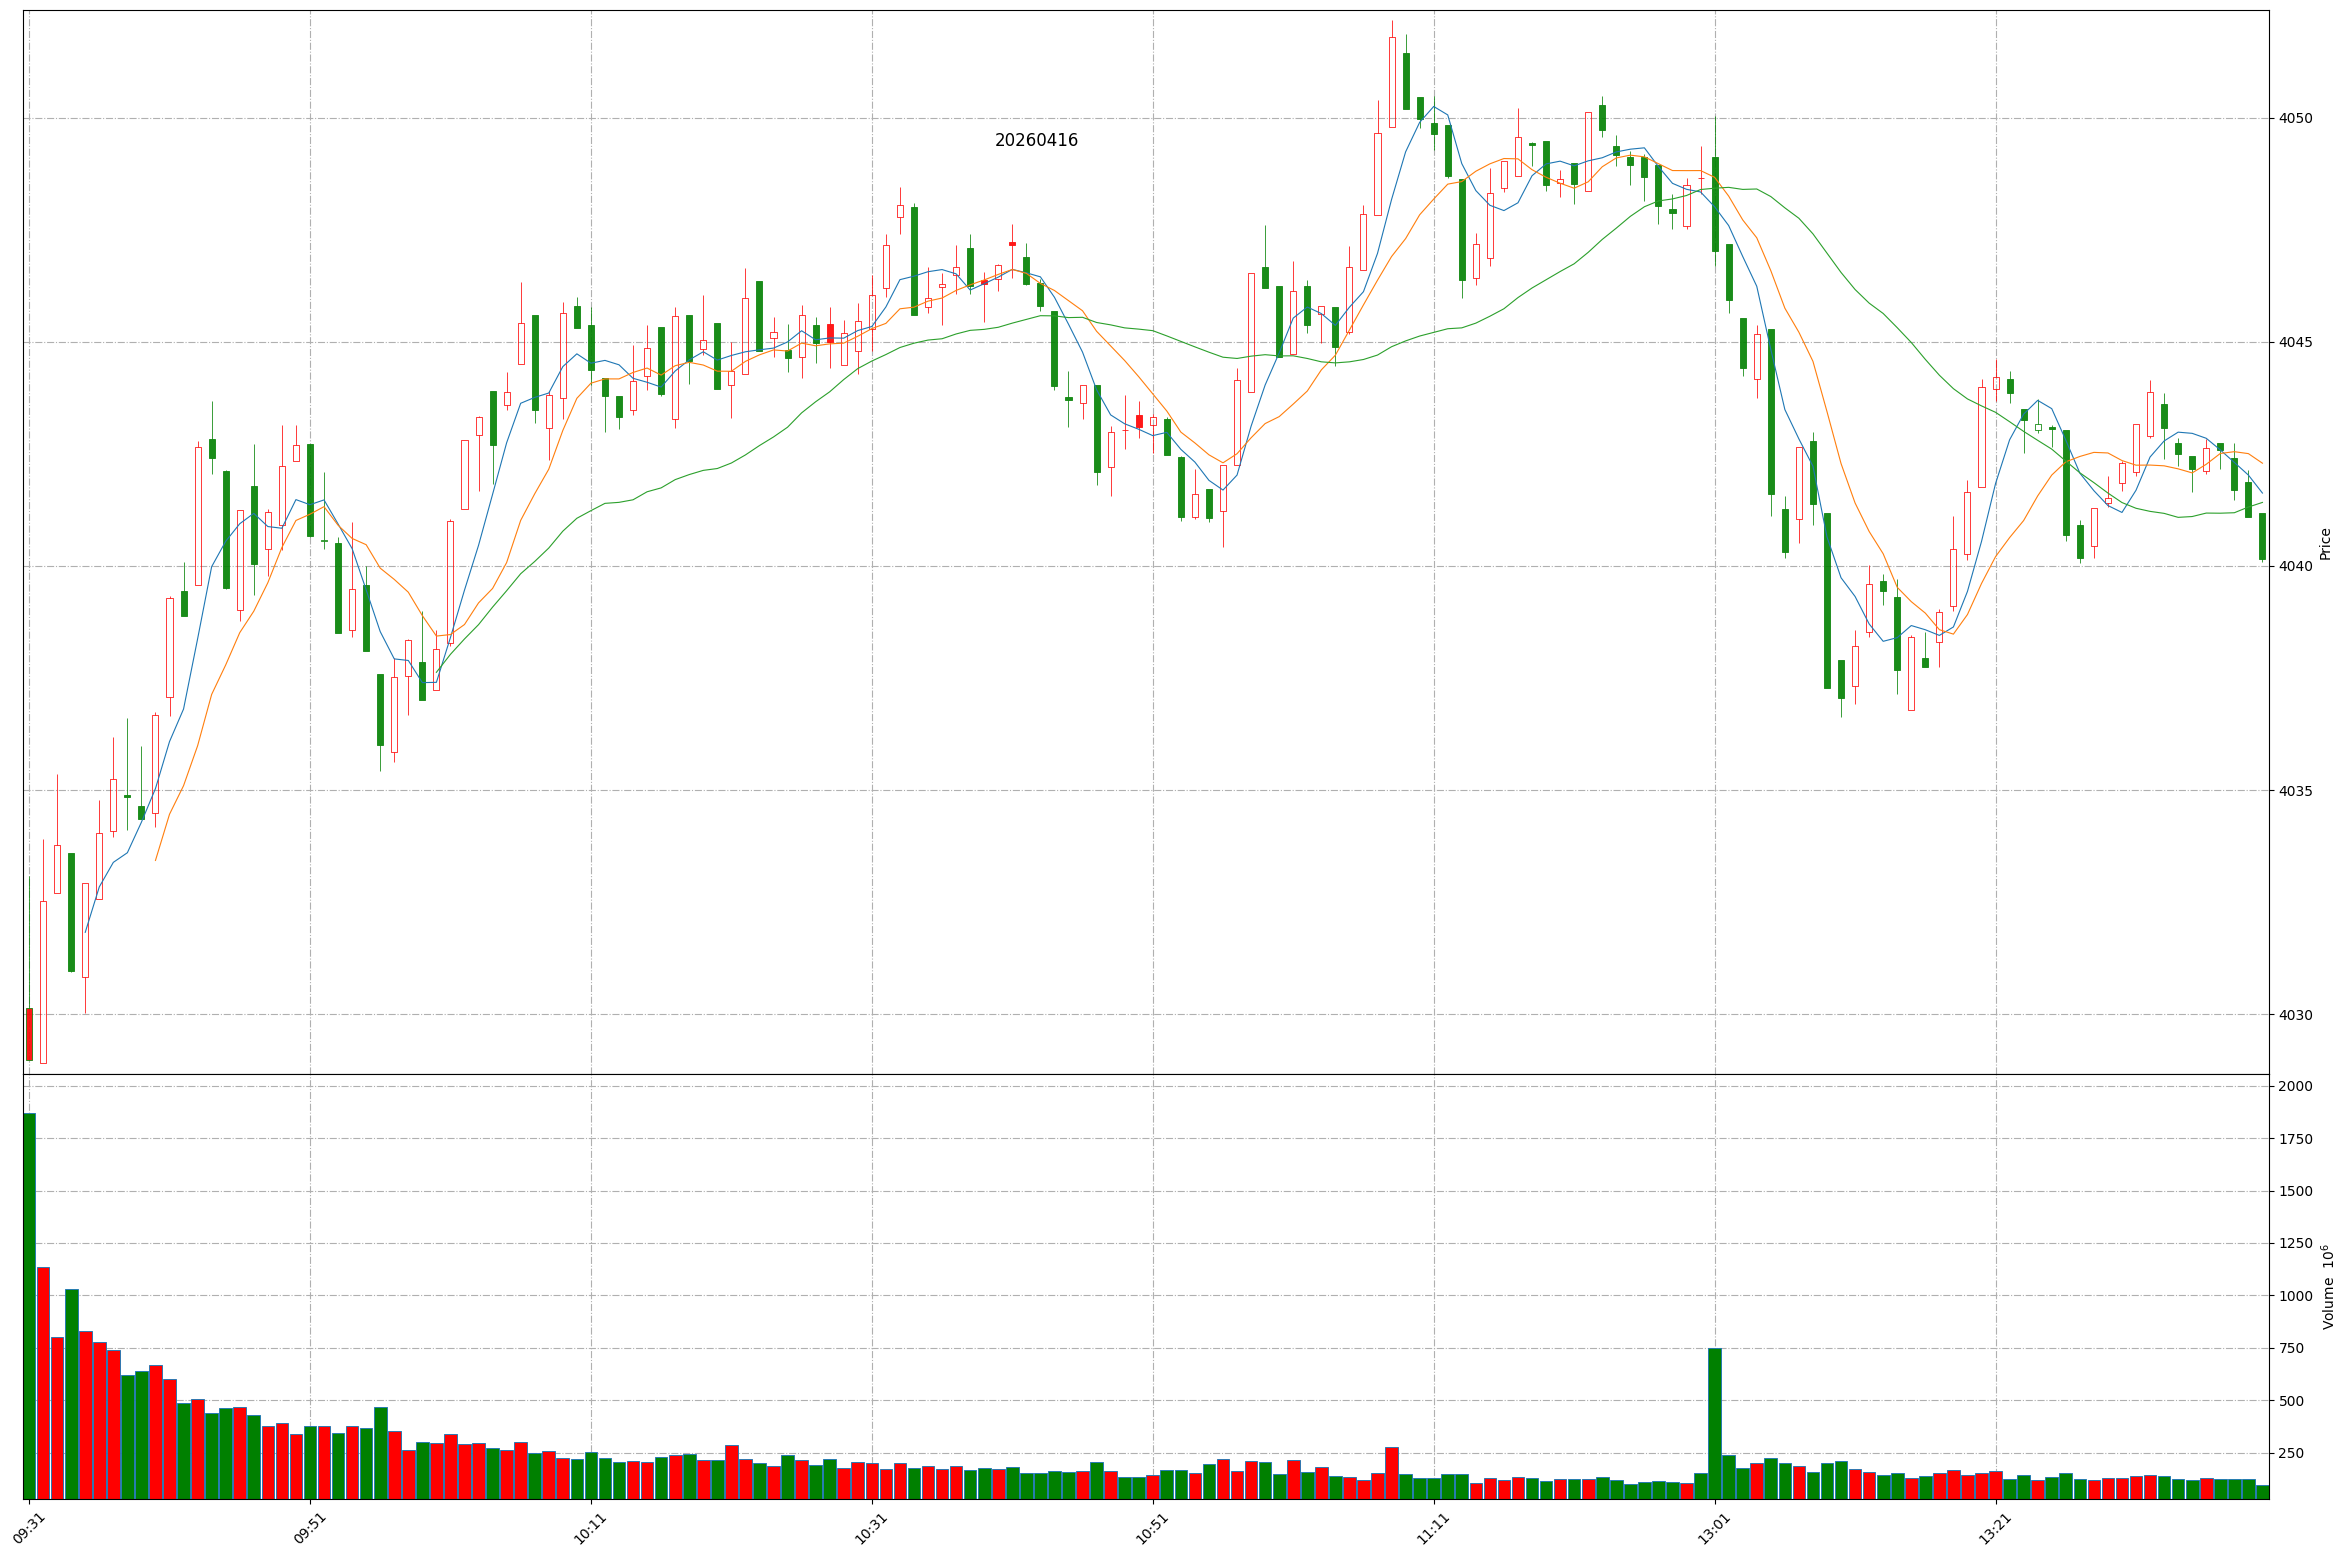
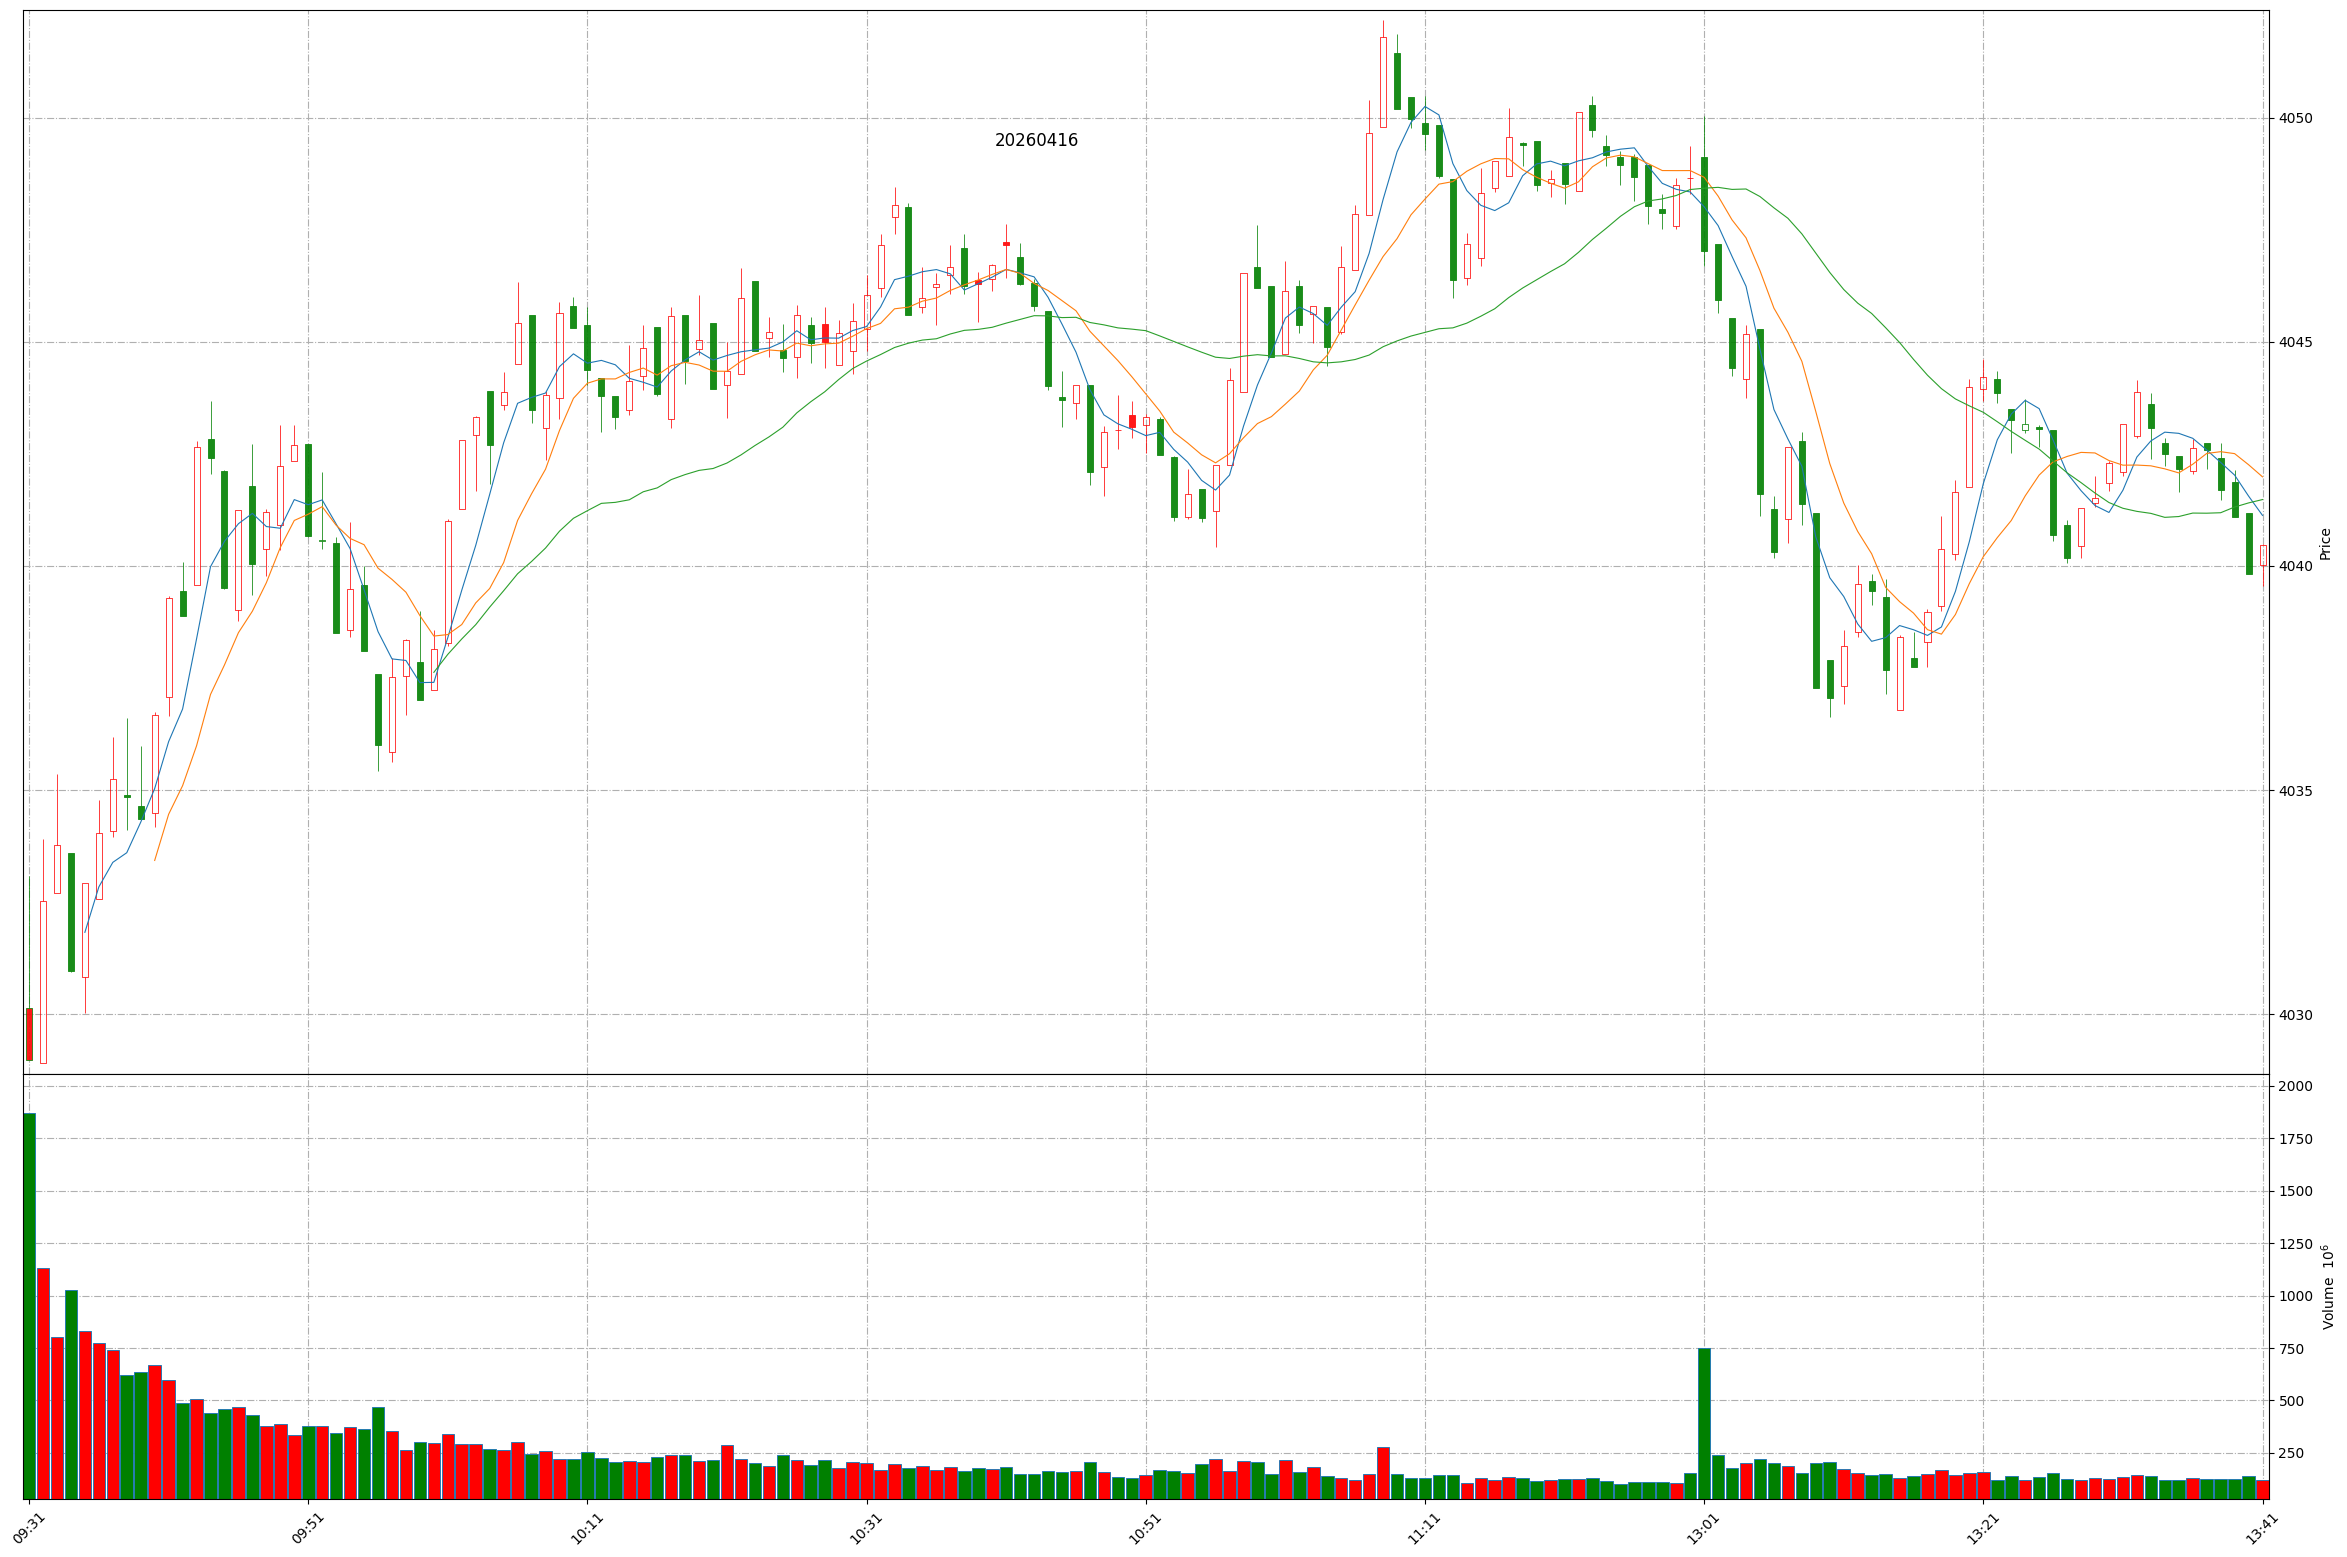
Github action update at 2026-04-16 13:41:10.

diff --git a/README.md b/README.md
@@ -1,11 +1,11 @@
 
 # Daily-A-share-market-quotes 每日 A 股指数（5min 更新）- 20260416
 
-### 上证指数 20260416 13:39
+### 上证指数 20260416 13:41
 ![](./fig/2026/4/20260416-sh000001.png)
 
-### 深证成指 20260416 13:39
+### 深证成指 20260416 13:41
 ![](./fig/2026/4/20260416-sz399001.png)
 
-### 北证50 20260416 13:39
+### 北证50 20260416 13:41
 ![](./fig/2026/4/20260416-bj899050.png)
